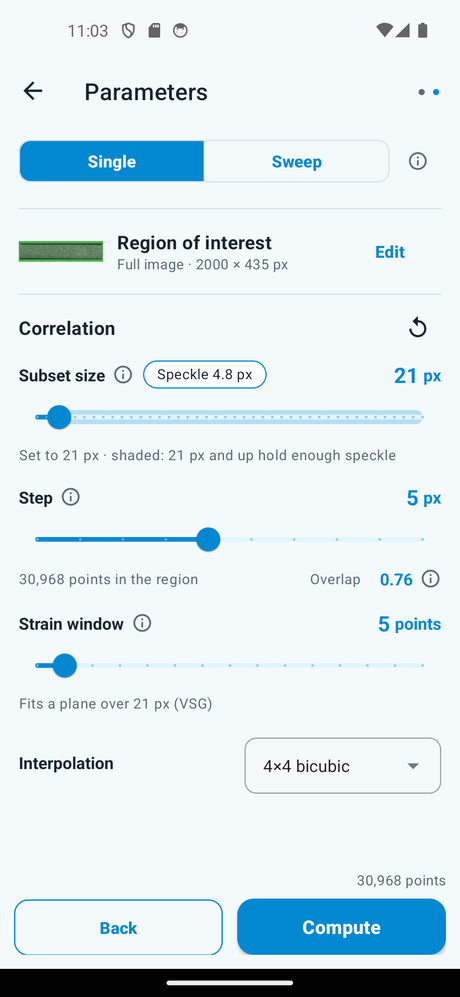
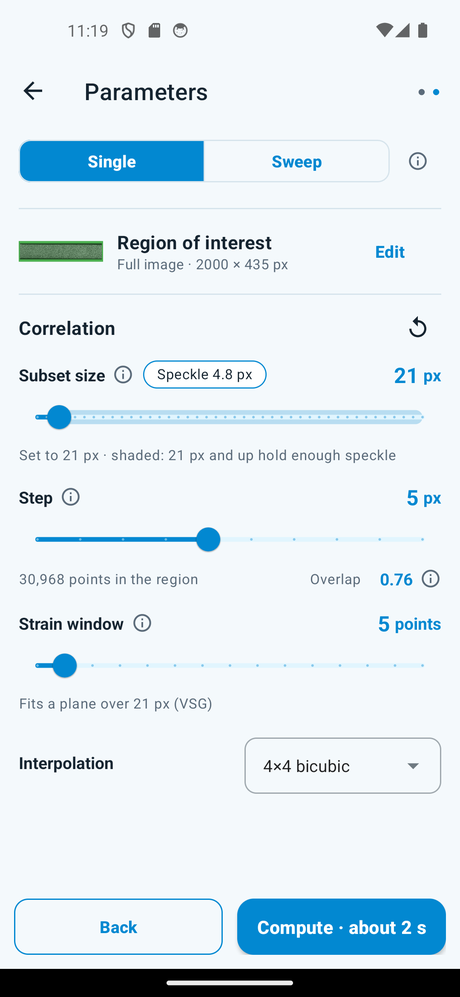
feat(wizard): the time estimate moves onto Compute; no line above the buttons
The step caption already counts the region's points, so the line above
Compute repeated it. Compute now reads "Compute · about 1 min" once this
phone has finished a run, "Compute" before. The run buttons shrink their
text to stay on one line, and the bottom bar no longer aligns them by
baseline, which pushed a shrunk button down.

diff --git a/app/src/test/java/com/sempermechanics/semper/ui/analysis/wizard/ParametersPageTest.kt b/app/src/test/java/com/sempermechanics/semper/ui/analysis/wizard/ParametersPageTest.kt
@@ -19,9 +19,8 @@ import org.robolectric.annotation.Config
 
 /**
  * The parameters page's chrome: the toolbar names the page and shows a dot
- * per page; the step slider says how many points the region holds; the line
- * above Compute says what a run solves and, once this phone has run one,
- * about how long it takes.
+ * per page; the step slider says how many points the region holds; Compute
+ * says, once this phone has run one, about how long a run takes.
  */
 @RunWith(RobolectricTestRunner::class)
 @Config(application = Application::class)
@@ -50,37 +49,34 @@ class ParametersPageTest {
     }
 
     @Test
-    fun `the step caption counts the region's points and the line above Compute adds the frames`() {
+    fun `the step caption counts the region's points, and Compute stays plain before any run`() {
         loadRun()
 
         gate.apply(isProcessing = false, sweepController = null)
 
+        assertEquals(View.VISIBLE, bed.settings.tvStepPoints.visibility)
         assertEquals("8,800 points in the region", bed.settings.tvStepPoints.text.toString())
-        assertEquals(View.VISIBLE, bed.binding.tvRunEstimate.visibility)
-        assertEquals("8,800 points × 40 frames", bed.binding.tvRunEstimate.text.toString())
+        assertEquals("Compute", bed.binding.btnCalculateFullField.text.toString())
     }
 
     @Test
-    fun `once this phone has a rate the line gives the time too`() {
+    fun `once this phone has a rate Compute gives the time`() {
         loadRun()
         AppSettings.setRunPointsPerSecond(bed.activity, 5000)
 
         gate.apply(isProcessing = false, sweepController = null)
 
-        assertEquals("8,800 points × 40 frames · about 71 s", bed.binding.tvRunEstimate.text.toString())
+        assertEquals("Compute · about 71 s", bed.binding.btnCalculateFullField.text.toString())
     }
 
     @Test
-    fun `a sweep or another page shows no estimate above the buttons`() {
-        loadRun()
-        bed.viewModel.sweepMode = true
-        gate.apply(isProcessing = false, sweepController = null)
-        assertEquals(View.GONE, bed.binding.tvRunEstimate.visibility)
+    fun `without a region there is no point count and no time`() {
+        AppSettings.setRunPointsPerSecond(bed.activity, 5000)
 
-        bed.viewModel.sweepMode = false
-        bed.viewModel.step = WizardStep.IMAGES
         gate.apply(isProcessing = false, sweepController = null)
-        assertEquals(View.GONE, bed.binding.tvRunEstimate.visibility)
+
+        assertEquals(View.GONE, bed.settings.tvStepPoints.visibility)
+        assertEquals("Compute", bed.binding.btnCalculateFullField.text.toString())
     }
 
     @Test

diff --git a/app/src/main/java/com/sempermechanics/semper/ui/analysis/wizard/AnalysisReadyGate.kt b/app/src/main/java/com/sempermechanics/semper/ui/analysis/wizard/AnalysisReadyGate.kt
@@ -49,9 +49,9 @@ class AnalysisReadyGate(
     }
 
     /**
-     * "8,800 points in the region" under the step slider, and "8,800 points ×
-     * 40 frames · about 1 min" above Compute on the single-setting page. The
-     * time comes from this phone's past runs; without any, points only.
+     * "8,800 points in the region" under the step slider, and "Compute · about
+     * 1 min" on the button. The time comes from this phone's past runs; without
+     * any, the button says Compute alone.
      */
     private fun showEstimate() {
         val subset = settings.sliderSubsetSize.value.toInt()
@@ -62,12 +62,12 @@ class AnalysisReadyGate(
         settings.tvStepPoints.isVisible = points > 0
         if (points > 0) settings.tvStepPoints.text = RunEstimate.regionLabel(res, points)
 
-        val frames = viewModel.defCount
-        val shown = points > 0 && frames > 0 && !viewModel.sweepMode && viewModel.step == WizardStep.SETTINGS
-        binding.tvRunEstimate.isVisible = shown
-        if (!shown) return
         val rate = AppSettings.runPointsPerSecond(binding.root.context)
-        val seconds = RunEstimate.seconds(points, frames, rate)
-        binding.tvRunEstimate.text = RunEstimate.runLabel(res, points, frames, seconds)
+        val seconds = RunEstimate.seconds(points, viewModel.defCount, rate)
+        binding.btnCalculateFullField.text = if (seconds != null) {
+            res.getString(R.string.run_compute_eta_fmt, RunEstimate.duration(res, seconds))
+        } else {
+            res.getString(R.string.run_analysis)
+        }
     }
 }

diff --git a/app/src/main/java/com/sempermechanics/semper/ui/analysis/recommend/RunEstimate.kt b/app/src/main/java/com/sempermechanics/semper/ui/analysis/recommend/RunEstimate.kt
@@ -12,7 +12,7 @@ import kotlin.math.roundToLong
  *
  * The time comes only from runs this phone has finished: a running mean of
  * grid points solved per second ([nextRate]). With no history the estimate
- * gives the point count alone, never a made-up time.
+ * gives no time at all, never a made-up one.
  */
 object RunEstimate {
 
@@ -49,20 +49,6 @@ object RunEstimate {
     /** "8,800 points in the region": the caption under the step slider. */
     fun regionLabel(res: Resources, points: Int): String =
         res.getQuantityString(R.plurals.run_estimate_region_fmt, points, grouped(points))
-
-    /**
-     * The line above Compute: "8,800 points × 40 frames · about 1 min", the
-     * frames left out for one frame, and the time left out without [seconds].
-     */
-    fun runLabel(res: Resources, points: Int, frames: Int, seconds: Long?): String {
-        val work = if (frames > 1) {
-            res.getQuantityString(R.plurals.run_estimate_frames_fmt, frames, grouped(points), frames)
-        } else {
-            res.getQuantityString(R.plurals.run_estimate_points_fmt, points, grouped(points))
-        }
-        val time = seconds?.let { duration(res, it) } ?: return work
-        return res.getString(R.string.run_estimate_joined_fmt, work, time)
-    }
 
     /** "about 33 s" up to a minute and a half, then "about 2 min". */
     fun duration(res: Resources, seconds: Long): String =

diff --git a/app/src/test/java/com/sempermechanics/semper/ui/analysis/recommend/RunEstimateTest.kt b/app/src/test/java/com/sempermechanics/semper/ui/analysis/recommend/RunEstimateTest.kt
@@ -46,11 +46,9 @@ class RunEstimateTest {
     }
 
     @Test
-    fun `the label names points and frames, and the time only when known`() {
-        assertEquals("8,800 points × 40 frames · about 70 s", RunEstimate.runLabel(res, 8800, 40, 70))
-        assertEquals("8,800 points × 40 frames", RunEstimate.runLabel(res, 8800, 40, null))
-        assertEquals("8,800 points · about 2 s", RunEstimate.runLabel(res, 8800, 1, 2))
+    fun `the step caption counts the region's points`() {
         assertEquals("8,800 points in the region", RunEstimate.regionLabel(res, 8800))
+        assertEquals("1 point in the region", RunEstimate.regionLabel(res, 1))
     }
 
     @Test

diff --git a/docs/app/WORKFLOWS.md b/docs/app/WORKFLOWS.md
@@ -399,8 +399,8 @@ vendor decoders and camera AVIs.
 | [ ] 5.2.11 | Type nonsense in a parameter field | Reverts to the previous value on commit |
 | [ ] 5.2.12 | Drag **step** | Max is `min(30, subset/2)` so overlap stays ≥ 0.5; the overlap field mirrors it; the line under the slider counts "N points in the region" = (ROI w ÷ step) × (ROI h ÷ step) |
 | [ ] 5.2.12a | Type **overlap** under the step slider | 0.50–0.99; step rewrites to `round(subset × (1 − overlap))` |
-| [ ] 5.2.12b | Read the line above **Compute** before any run on this phone | "N points × F frames" (one frame: "N points"), no time |
-| [ ] 5.2.12c | Run once, come back to step 2 | The line adds "· about S s" (minutes past 90 s), from the points per second this phone's runs reached |
+| [ ] 5.2.12b | Read **Compute** before any run on this phone | "Compute", no time |
+| [ ] 5.2.12c | Run once, come back to step 2 | The button reads "Compute · about S s" (minutes past 90 s), from the points per second this phone's runs reached, frames × points; the text shrinks to stay on one line |
 | [ ] 5.2.13 | Drag **strain window** | Odd values 3–31, in **points**; the field mirrors it and the line under the slider reads "Fits a plane over N px (VSG)", N = (window − 1) × step + 1. It starts at 5 |
 | [ ] 5.2.13a | Open step 2 having never copied params from a lattice | No paste icon beside **Reset** — it only appears when the clipboard holds a set |
 | [ ] 5.2.13b | Copy params from a sweep lattice (§7.3), then return here | The paste icon appears beside **Reset**; tapping it fills subset, step and strain window (overlap follows step) and scrolls them into view. The window is the one whose VSG at the pasted step matches the node's |

diff --git a/docs/images/CAPTURE_CHECKLIST.md b/docs/images/CAPTURE_CHECKLIST.md
@@ -25,7 +25,7 @@ distort.
 | `new-analysis-source.png` | §4 | Images tab open, gallery grid populated, a video tile showing its badge |
 | `step1-frames.png` | §4 | Reference + 3 deformed frames loaded, order badges visible |
 | `frame-order-menu.png` | §4 | The sort menu open over the loaded strip |
-| `step2-parameters.png` | §4 | *(2026-10-09, light, Pixel_5 emulator)* Flat list: Single/Sweep at the top, the ROI row with its thumbnail, the Correlation section with the "Speckle D px" chip, the shaded band behind the subset slider and its caption, "N points in the region" under the step, the Interpolation dropdown, and "N points × F frames · about T" above **Compute** |
+| `step2-parameters.png` | §4 | *(2026-10-09, light, Pixel_5 emulator)* Flat list: Single/Sweep at the top, the ROI row with its thumbnail, the Correlation section with the "Speckle D px" chip, the shaded band behind the subset slider and its caption, "N points in the region" under the step, the Interpolation dropdown, and **Compute** |
 | `speckle-warning.png` | §4 (new) | *(2026-09-09, dark)* Step 1 with the over-resolved speckle chip — a 12.8 px pattern against the 9 px ceiling |
 | `speckle-span-warning.png` | §4 (new) | *(2026-09-10, dark)* Step 2 with the subset-span chip under the slider — a 7.1 px pattern against a 15 px subset, asking for 23 |
 | `running.png` | §4 | *(2026-10-08, light, Pixel_5 AVD)* Mid-run: "Frame N of M", time left, the convergence line over several frames, "Correlating frame N · X%" under it |

diff --git a/docs/OPERATING_MANUAL.md b/docs/OPERATING_MANUAL.md
@@ -215,10 +215,9 @@ top to bottom:
   subset range, strain-window range, and step as subset ÷ N (default 3), with
   overlap shown at the end of that row.
 
-Above **Compute** a line says what the run solves: "8,800 points × 40 frames",
-then "· about 1 min" once this phone has finished a run — the time is a running
-mean of the points per second your own runs reached, never a guess. Then
-**Compute** (Single) or **Next: Summary →** (Sweep).
+Once this phone has finished a run, **Compute** reads "Compute · about 1 min":
+a running mean of the points per second your own runs reached, never a guess.
+Before that it reads **Compute**. In Sweep the button is **Next: Summary →**.
 
 ### While it runs
 
